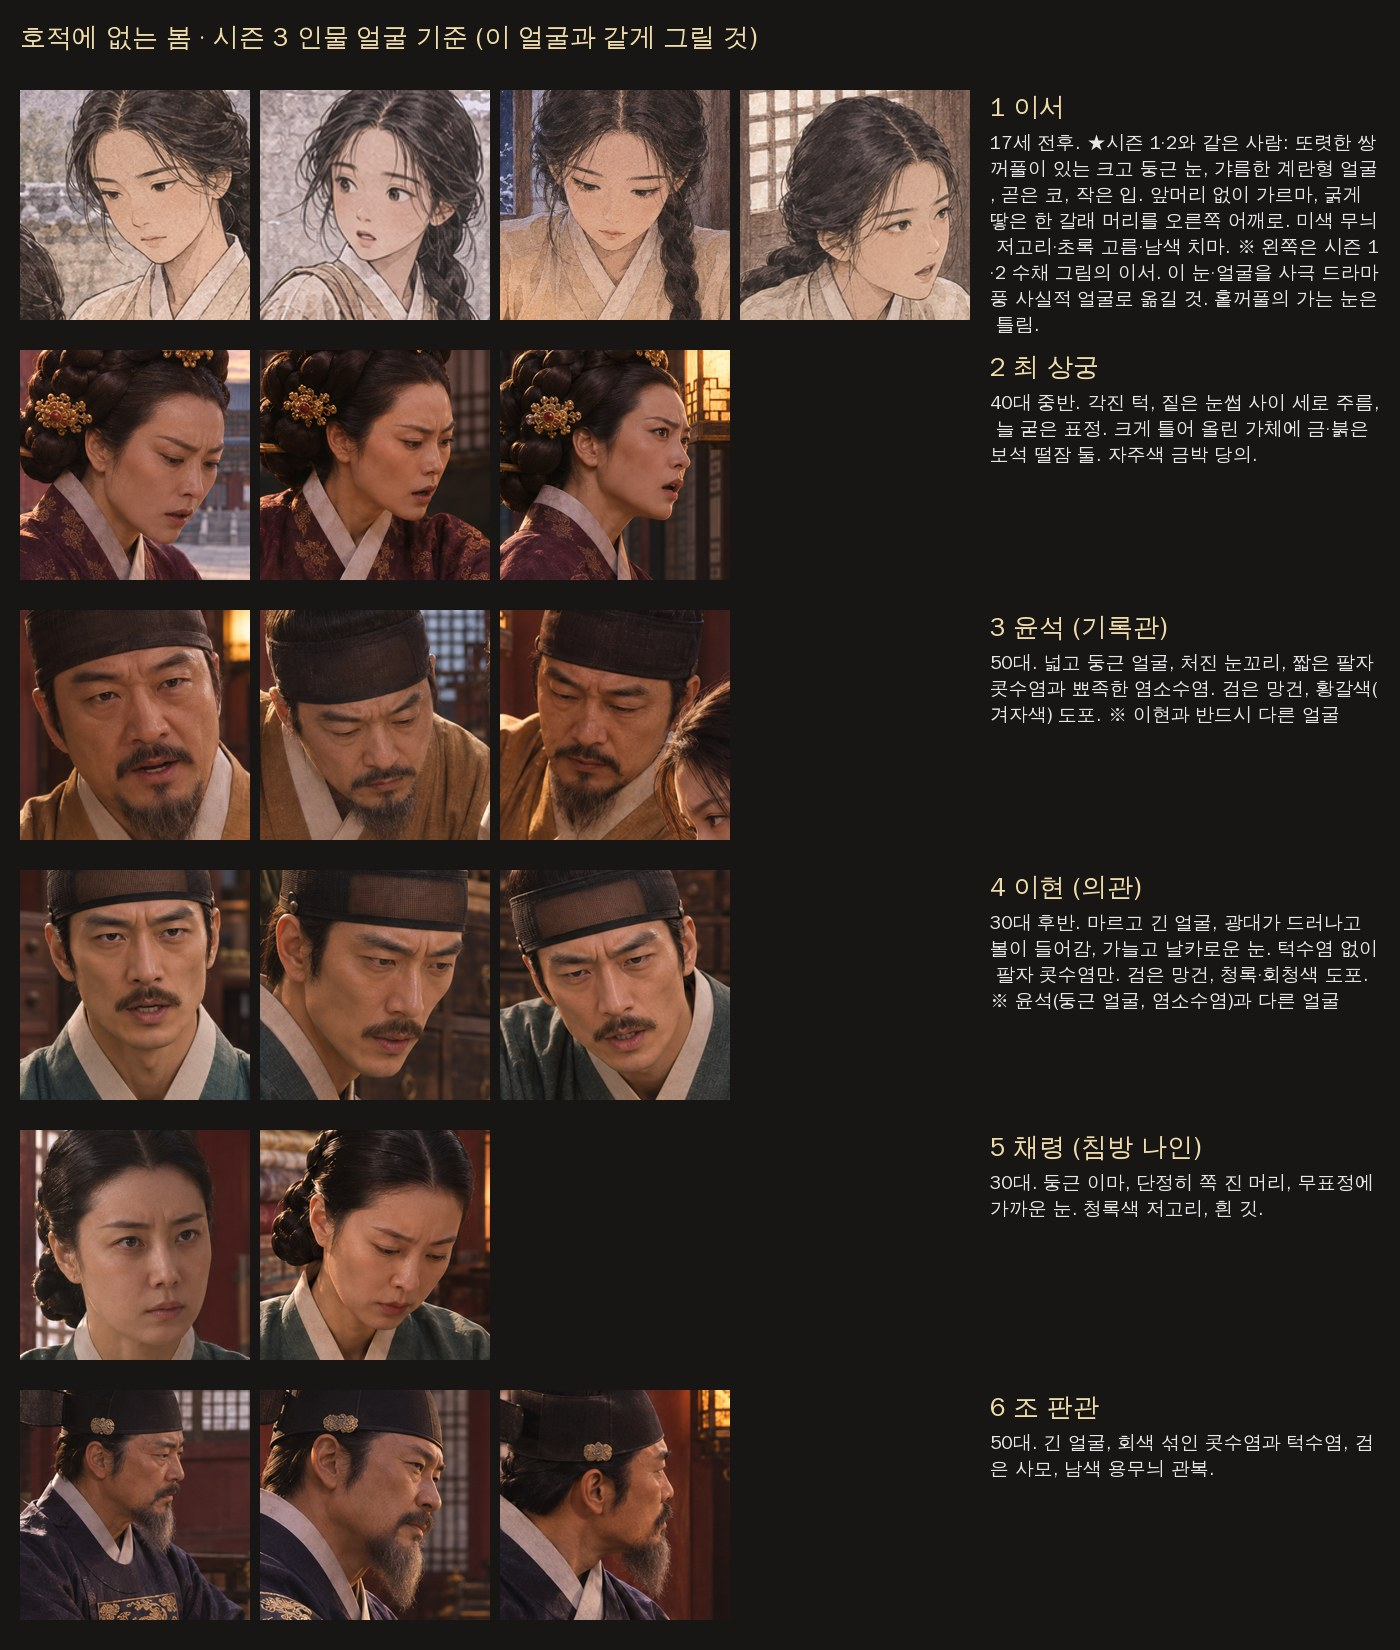
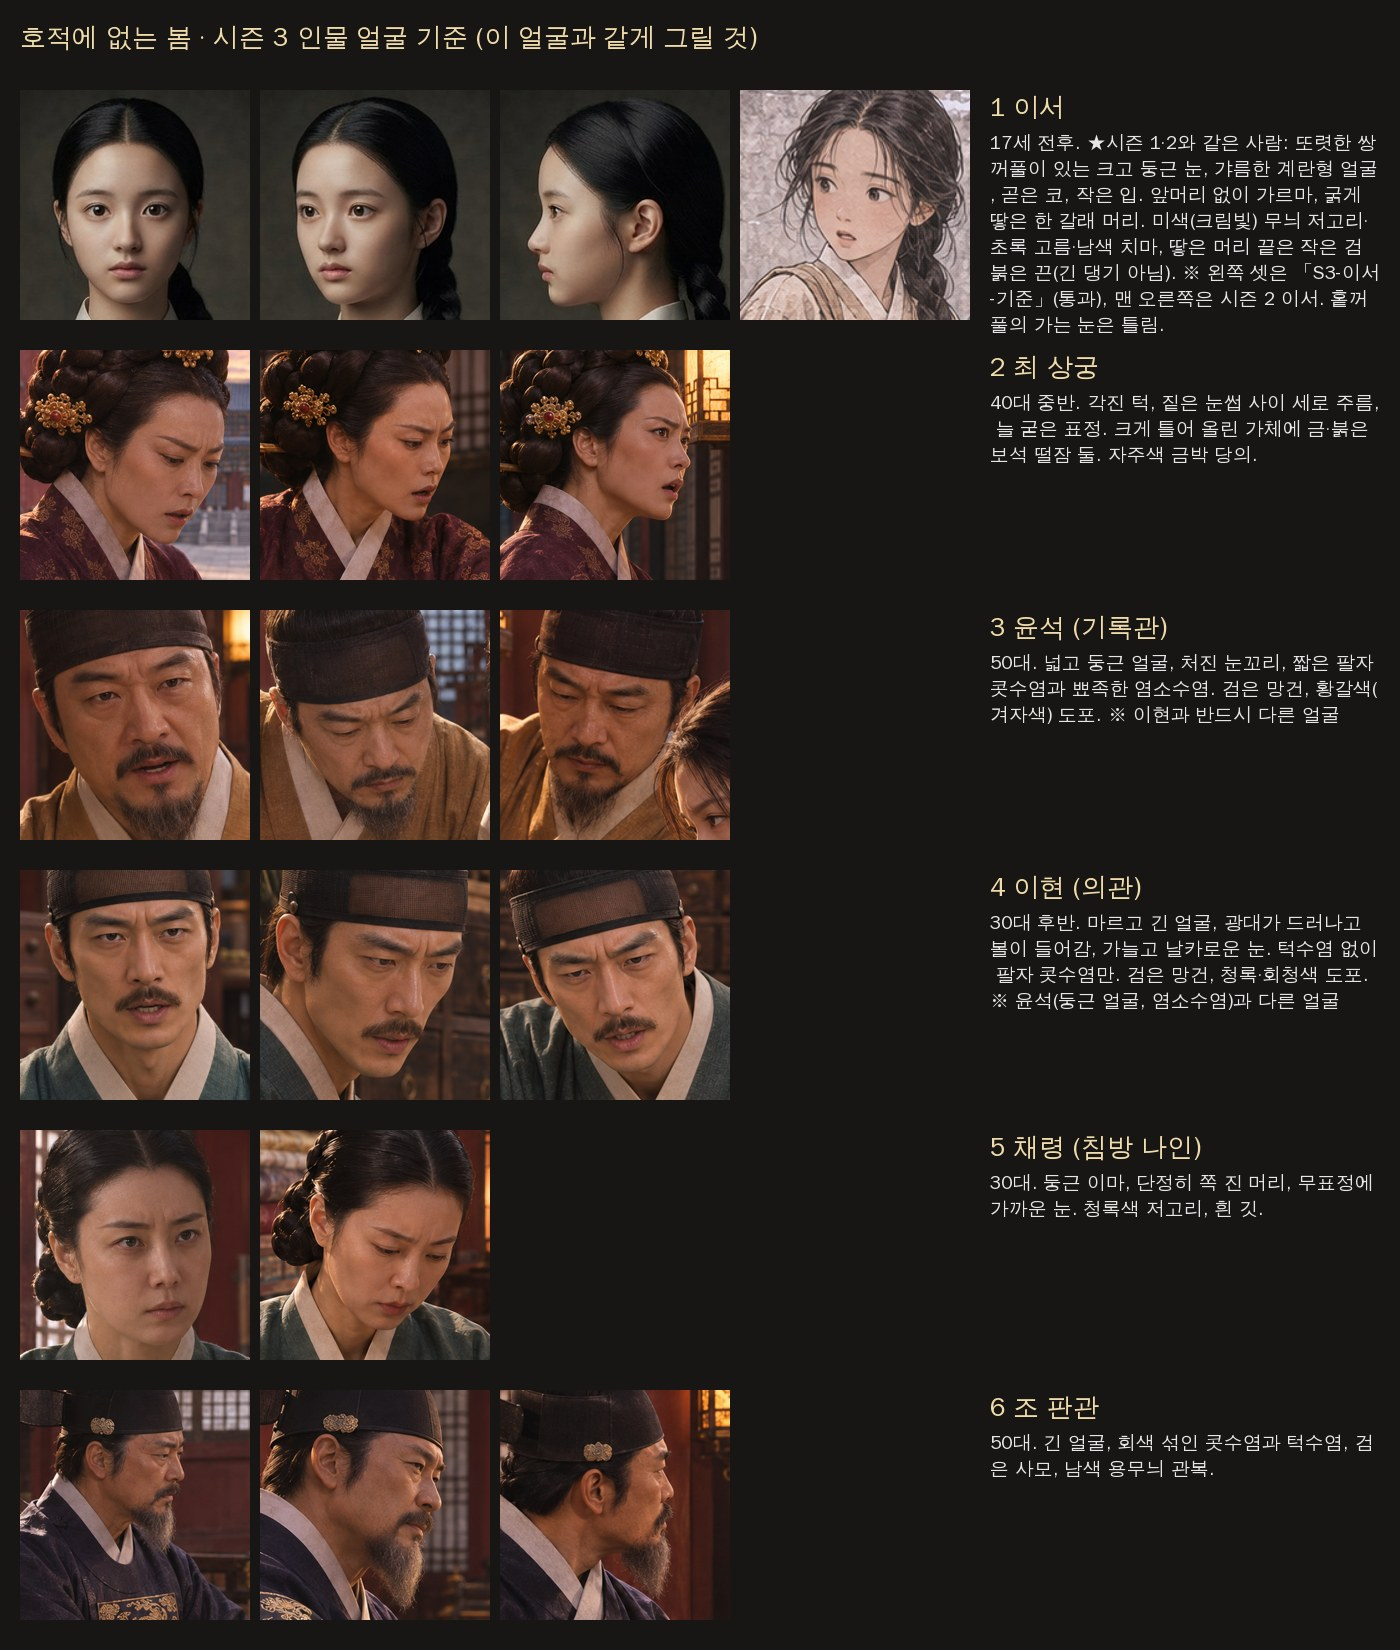
시즌 3 이서 기준 얼굴 통과: 얼굴 기준표 1번 칸을 새 기준 얼굴로 교체
Claude-Session: https://claude.ai/code/session_01VZgG2bX25gLRz4FyidLT13

Changed region(s): [[0.0, 0.0309, 0.9829, 0.2164]]

diff --git a/docs/new-cuts-pipeline.md b/docs/new-cuts-pipeline.md
@@ -72,7 +72,7 @@
 5. 금지 요소: 글자, 말풍선, 서명, 테두리, 여러 칸 분할이 없다. 손가락·문서·소품이 크게 어색하지 않다.
 6. 몸과 손: 보이는 손·팔마다 그 몸이 화면 안에(또는 문틀·가장자리 뒤에 자연스럽게) 이어진다. 벽·담·허공에서 팔만 나오면 안 된다(S3-62 반려 사례). 손가락 수, 두 손의 좌우가 맞다.
 7. 시선과 방향: 인물이 보는 곳·가리키는 곳·걷는 방향이 장면의 사건(불, 문, 말하는 사람)과 맞는다. 사건과 다른 쪽을 가리키면 반려한다(S3-63 반려 사례).
-8. 얼굴 비교는 눈대중으로 하지 않는다: 새 컷의 이서(와 주요 인물) 얼굴을 잘라 기준 컷과 나란히 놓고 본다. 시즌 3 이서는 시즌 1·2 이서와 같은 사람이므로 「S3-이서-기준.png」(통과 후)와 시즌 1·2 이서 얼굴(S1-12·S1-14·S2-19·S2-22)을 함께 놓는다. 눈은 또렷한 쌍꺼풀이 있는 크고 둥근 눈이어야 한다(홑꺼풀의 가는 눈은 탈락). 그리는 도구가 바뀐 묶음(예: ChatGPT → 제미나이)은 특히 얼굴형을 다시 본다.
+8. 얼굴 비교는 눈대중으로 하지 않는다: 새 컷의 이서(와 주요 인물) 얼굴을 잘라 기준 컷과 나란히 놓고 본다. 시즌 3 이서는 시즌 1·2 이서와 같은 사람이므로 「S3-이서-기준.png」(docs/s3-iseo-reference.png, 2026-11-21 통과)와 시즌 1·2 이서 얼굴(S1-12·S1-14·S2-19·S2-22)을 함께 놓는다. 눈은 또렷한 쌍꺼풀이 있는 크고 둥근 눈이어야 한다(홑꺼풀의 가는 눈은 탈락). 그리는 도구가 바뀐 묶음(예: ChatGPT → 제미나이)은 특히 얼굴형을 다시 본다.
 9. 머리 모양·거울·그림자도 본다: 이서는 시즌 내내 한 갈래로 땋아 어깨로 내린 머리다(다른 모양이면 탈락). 거울 속 모습은 실제 자세를 좌우만 뒤집은 것이어야 한다(들고 있는 물건의 위치, 땋은 머리의 방향).
 10. 대사와 거리도 맞춘다: 그림 속 두 사람이 멀리 떨어져 있거나 한쪽이 숨어 지켜보면, 마주 보고 주고받는 대사를 붙이지 않는다. 그림을 고칠지 글을 고칠지 먼저 정한다.
 11. 시즌을 넘는 인물은 앞 시즌과 비교한다: 그림체가 바뀌어도 눈꺼풀·눈 크기·얼굴형·가르마 같은 생김새는 같아야 한다. 기준표 글을 쓸 때도 앞 시즌 그림을 보고 적는다(시즌 3 기준표에 '쌍꺼풀 없는 눈'이라고 잘못 적어 51장을 다시 그리게 된 일이 있었다).
